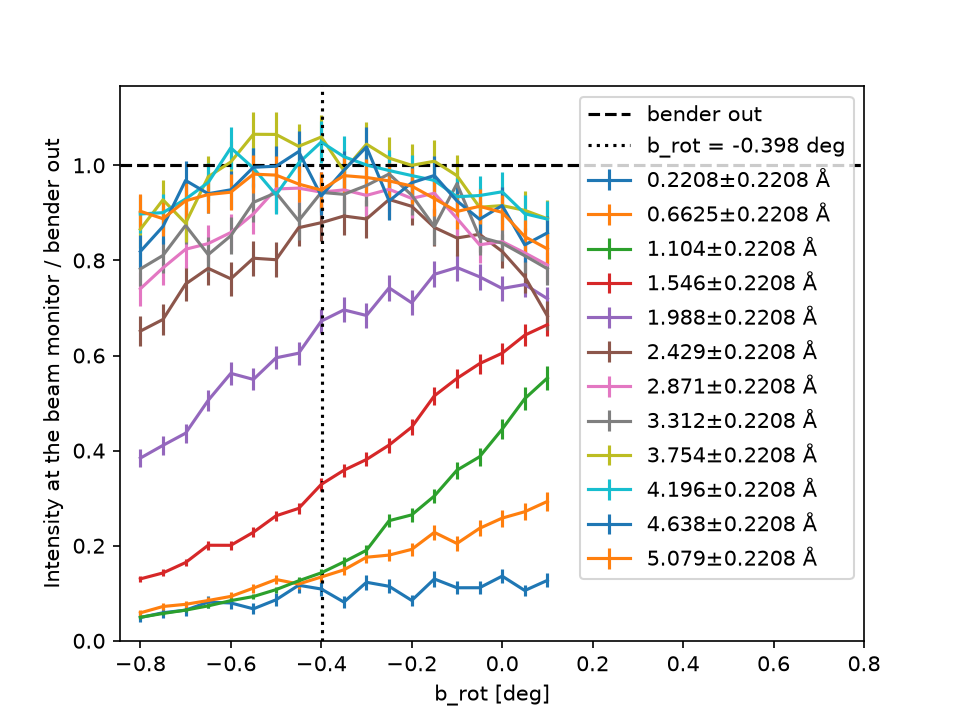
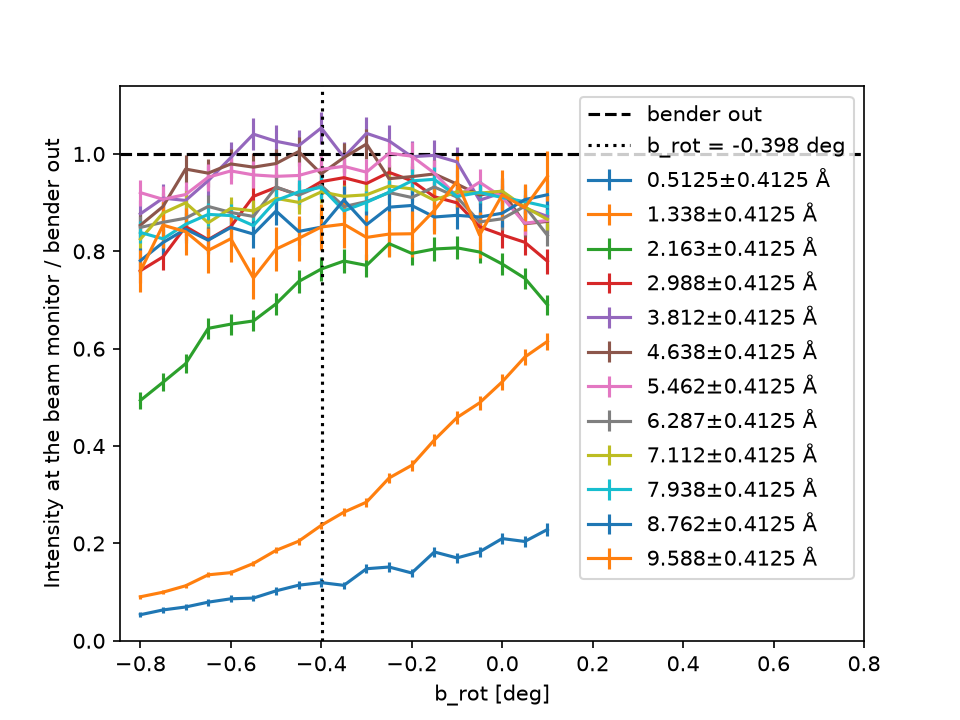
Center the T-Rex source band on lambda0
The source simulates lambda0 ± half the wavelengths that reach the sample
in one source period plus the pulse length, (h/m_n)(1/f + 3.5 ms)/163.8 m,
clipped to 0.1 to 10 Å. A new lambda0 in update_params creates the source
again with its band. The beam monitor can work out its time window from
its wavelength axis, and the diagnostics keep the full 0.1 to 10 Å band.

The tests of the source, params.yaml, the docs TRex.instr and the
extraction still expect the 0.1 to 10 Å band and fail.

diff --git a/src/mcdgs/instruments/trex/model.py b/src/mcdgs/instruments/trex/model.py
@@ -1,12 +1,13 @@
 """The T-Rex instrument and its control parameters."""
 
 from dataclasses import dataclass, replace
-from typing import TYPE_CHECKING
+from typing import TYPE_CHECKING, Any
 
 from mcdgs.core.base import Instrument
 from mcdgs.core.components import (
     Arm,
     Component,
+    ESS_butterfly,
     Guide_gravity,
     Progress_bar,
     Single_crystal,
@@ -25,12 +26,41 @@ from .guides.bispectral import (
 from .guides.curve import guides_curve
 from .guides.extraction import guides_extraction
 from .guides.straight import guides_straight, sample_monitor, sample_pos, slit_mc
-from .sources import source
+from .sources import source, wavelength_band
 
-# the axes of the beam monitor's map, start, stop and number of bins: 15 ms take in the whole
-# pulse up to 5.3 Å
-BEAM_MONITOR_TIME_LIMITS = (0.0, 0.015, 300)  # s
-BEAM_MONITOR_LAMBDA_LIMITS = (0.0, 5.3, 96)  # Å
+# the axes of the beam monitor's map. Time: start, stop and number of bins, 0.05 ms each; a
+# 10 Å neutron flies 14.9 ms to the monitor at 5.90 m, so 20 ms take in the whole pulse up to
+# the source's Lmax. Wavelength: the source's band, see beam_monitor_lambda_limits, in bins of
+# 0.055 Å from 0.1 to 10 Å
+BEAM_MONITOR_TIME_LIMITS = (0.0, 0.020, 400)  # s
+BEAM_MONITOR_LAMBDA_BINS = 180
+
+
+def beam_monitor_lambda_limits(source: ESS_butterfly) -> tuple[float, float, int]:
+    """Return the wavelength axis of the beam monitor's map: the band the source simulates.
+
+    Parameters
+    ----------
+    source:
+        The source, whose ``Lmin`` and ``Lmax`` must be numbers, not instrument parameters.
+
+    Returns
+    -------
+    :
+        Start and stop in Å, ``Lmin`` and ``Lmax``, and ``BEAM_MONITOR_LAMBDA_BINS`` bins.
+
+    Raises
+    ------
+    TypeError
+        If ``Lmin`` or ``Lmax`` is an instrument parameter, whose value the monitor's options
+        cannot hold.
+    """
+    if isinstance(source.Lmin, str) or isinstance(source.Lmax, str):
+        raise TypeError(
+            f"the beam monitor needs a numeric Lmin and Lmax, not {source.Lmin!r} and "
+            f"{source.Lmax!r}"
+        )
+    return (float(source.Lmin), float(source.Lmax), BEAM_MONITOR_LAMBDA_BINS)
 
 
 @dataclass(frozen=True)
@@ -108,14 +138,16 @@ class TRex(Instrument):
         to_psc, to_mc, to_slit = guides_straight()
 
         self.origin = Progress_bar(at=[0, 0, 0])
-        self.source = source()
+        self.source = source(*wavelength_band(self.params.lambda0))
         self.add_components(guides_extraction())
         # bispectral switch: guide 4a (thermal) or bender and guide 4b (cold)
         self.arm_guide_4 = arm_guide_4()
         self.guide_4a = guide_4a(when="bender_in==0")
         self.bender = bender(when="bender_in==1")
         self.guide_4b = guide_4b(when="bender_in==1")
-        self.beam_monitor = beam_monitor(BEAM_MONITOR_TIME_LIMITS, BEAM_MONITOR_LAMBDA_LIMITS)
+        self.beam_monitor = beam_monitor(
+            BEAM_MONITOR_TIME_LIMITS, beam_monitor_lambda_limits(self.source)
+        )
         # curved guides
         self.add_components(to_bwc1)
         self.bw1 = disks["bw1"]
@@ -137,6 +169,26 @@ class TRex(Instrument):
         self.sample = None
         if sample is not None:
             self.sample = replace(sample, relative=sample.relative or "sample_pos")
+
+    def update_params(self, **values: Any) -> None:
+        """Change control parameters.
+
+        A new ``lambda0`` also creates the source again, with the band of
+        :func:`.sources.wavelength_band`. The beam monitor keeps its wavelength axis.
+
+        Parameters
+        ----------
+        **values:
+            New values by parameter name, e.g. ``update_params(lambda0=4.0)``.
+
+        Raises
+        ------
+        TypeError
+            If a name is not a field of :class:`Params`.
+        """
+        super().update_params(**values)
+        if "lambda0" in values:
+            self.source = source(*wavelength_band(self.params.lambda0))
 
     def add_components(self, components: dict[str, Component]) -> None:
         """Set components as attributes under their names, keeping their order.

diff --git a/src/mcdgs/instruments/trex/sources.py b/src/mcdgs/instruments/trex/sources.py
@@ -3,9 +3,49 @@
 from mcdgs.core.components import (
     ESS_butterfly,
 )
+from mcdgs.core.components.source import ESS_SOURCE_FREQUENCY, ESS_SOURCE_LENGTH, L_MAX, L_MIN
+from mcdgs.core.utils import speed_from_wavelength
+
+SAMPLE_Z = 163.8  # m
 
 
-def source() -> ESS_butterfly:
+def wavelength_band(lambda0: float) -> tuple[float, float]:
+    """Return the wavelength band the source simulates around ``lambda0``.
+
+    The band is the wavelengths that reach the sample in one source period plus the pulse
+    length, 1.810 Å, centered on ``lambda0`` and clipped to ``L_MIN`` and ``L_MAX``.
+
+    Parameters
+    ----------
+    lambda0:
+        Central wavelength, in Å.
+
+    Returns
+    -------
+    :
+        ``Lmin`` and ``Lmax`` of the source, in Å.
+
+    Raises
+    ------
+    ValueError
+        If the clipped band is empty: ``lambda0`` is half the band or more outside ``L_MIN``
+        to ``L_MAX``.
+    """
+    # h / m_n = 3956.034 m·Å/s, Planck's constant over the neutron mass: a neutron of
+    # wavelength λ in Å flies at h / (m_n λ) m/s, so the one of 1 Å at 3956.034 m/s
+    h_over_m_n = speed_from_wavelength(1.0)  # m·Å/s
+    # t = L λ m_n / h, so Δλ = (h / m_n) (1 / f + pulse length) / L. With L = 163.8 m that
+    # is 1.810 Å, so 0.905 Å on each side of lambda0
+    half_band = 0.5 * h_over_m_n * (1 / ESS_SOURCE_FREQUENCY + ESS_SOURCE_LENGTH) / SAMPLE_Z  # Å
+
+    l_min = max(L_MIN, lambda0 - half_band)
+    l_max = min(L_MAX, lambda0 + half_band)
+    if l_min >= l_max:
+        raise ValueError(f"lambda0 = {lambda0} Å leaves no band between {L_MIN} and {L_MAX} Å")
+    return (l_min, l_max)
+
+
+def source(l_min: float = L_MIN, l_max: float = L_MAX) -> ESS_butterfly:
     """Create the source component for T-Rex.
 
     Returns
@@ -21,8 +61,8 @@ def source() -> ESS_butterfly:
         dist=2,
         focus_xw=0.095,
         focus_yh=0.035,
-        Lmin=0.1,
-        Lmax=10.0,
+        Lmin=l_min,
+        Lmax=l_max,
         n_pulses=1,
         acc_power=2,
     )

diff --git a/src/mcdgs/diagnostics/trex/extraction.py b/src/mcdgs/diagnostics/trex/extraction.py
@@ -41,7 +41,7 @@ from mcdgs.instruments.trex.guides.bispectral import (
     guide_4b,
 )
 from mcdgs.instruments.trex.guides.extraction import guides_extraction
-from mcdgs.instruments.trex.model import BEAM_MONITOR_LAMBDA_LIMITS, BEAM_MONITOR_TIME_LIMITS
+from mcdgs.instruments.trex.model import BEAM_MONITOR_TIME_LIMITS, beam_monitor_lambda_limits
 from mcdgs.instruments.trex.sources import source
 from mcdgs.mcstas.builder import build_mcstas, default_input_dir
 from mcdgs.mcstas.run_folders import default_output_dir, run_folder
@@ -97,14 +97,16 @@ class Extraction(Instrument):
     def __init__(self, params: ExtractionParams = DEFAULT_PARAMS) -> None:
         super().__init__(params)
         self.origin = Progress_bar(at=[0, 0, 0])
-        self.source = source()
+        self.source = source(l_min=0.1, l_max=10)
         for name, component in guides_extraction().items():
             setattr(self, name, component)
         self.arm_guide_4 = arm_guide_4()
         self.guide_4a = guide_4a(when="bender_in==0")
         self.bender = bender(when="bender_in==1")
         self.guide_4b = guide_4b(when="bender_in==1")
-        self.beam_monitor = beam_monitor(BEAM_MONITOR_TIME_LIMITS, BEAM_MONITOR_LAMBDA_LIMITS)
+        self.beam_monitor = beam_monitor(
+            BEAM_MONITOR_TIME_LIMITS, beam_monitor_lambda_limits(self.source)
+        )
 
     @property
     def instr_params(self) -> list[InstrParam]:
@@ -156,7 +158,7 @@ def main(
     extraction = Extraction()
     tof_result = build_tof(extraction, neutrons=neutrons, seed=seed).run()
     t_start, t_stop, t_bins = BEAM_MONITOR_TIME_LIMITS
-    l_start, l_stop, l_bins = BEAM_MONITOR_LAMBDA_LIMITS
+    l_start, l_stop, l_bins = beam_monitor_lambda_limits(extraction.source)
     bins = {  # the bin edges of the beam monitor's map, in its order: time, wavelength
         "toa": sc.linspace("toa", t_start, t_stop, t_bins + 1, unit="s"),
         "wavelength": sc.linspace("wavelength", l_start, l_stop, l_bins + 1, unit="Å"),

diff --git a/src/mcdgs/instruments/trex/guides/bispectral.py b/src/mcdgs/instruments/trex/guides/bispectral.py
@@ -19,6 +19,9 @@ the guide axis, so nothing downstream of it is rotated.
 import math
 
 from mcdgs.core.components import Arm, Guide_gravity, Monitor_nD, Pol_bender
+from mcdgs.core.components.source import ESS_SOURCE_LENGTH
+from mcdgs.core.utils import speed_from_wavelength
+from mcdgs.instruments.trex.sources import L_MAX, L_MIN
 
 from .extraction import entrance_x, half_taper_angle, z_along_arm
 
@@ -154,7 +157,8 @@ def guide_4b(when: str | None = None) -> Guide_gravity:
 
 
 def beam_monitor(
-    time_limits: tuple[float, float, int], lambda_limits: tuple[float, float, int]
+    time_limits: tuple[float, float, int] | None = None,
+    lambda_limits: tuple[float, float, int] = (L_MIN, L_MAX, 100),
 ) -> Monitor_nD:
     """Create the time and wavelength monitor in the middle of the bunker gap of row 29.
 
@@ -174,7 +178,13 @@ def beam_monitor(
         A new monitor.
     """
     monitor_z = BEAM_MONITOR_GAP_Z + BEAM_MONITOR_GAP_LENGTH / 2
-    t_start, t_stop, t_bins = time_limits
+    if time_limits is None:
+        t_min = monitor_z / speed_from_wavelength(lambda_limits[0])
+        # the slowest neutron, leaving at the end of the pulse
+        t_max = monitor_z / speed_from_wavelength(lambda_limits[1]) + ESS_SOURCE_LENGTH
+        t_start, t_stop, t_bins = (t_min, t_max, 400)
+    else:
+        t_start, t_stop, t_bins = time_limits
     l_start, l_stop, l_bins = lambda_limits
 
     return Monitor_nD(

diff --git a/src/mcdgs/core/components/source.py b/src/mcdgs/core/components/source.py
@@ -5,7 +5,11 @@ from typing import Any
 
 from .base import Component
 
-ESS_SOURCE_FREQUENCY = 14  # Hz, the pulse frequency McStas fixes, as in ess_source-lib.h
+ESS_SOURCE_FREQUENCY = 14  # Hz, the pulse frequency
+ESS_SOURCE_LENGTH = 3.5e-3  # s, the pulse length
+# the widest band the source simulates: the band is clipped to it
+L_MIN = 0.1  # Å
+L_MAX = 10.0  # Å
 
 
 @dataclass(kw_only=True, repr=False)  # repr: Component's
@@ -98,6 +102,15 @@ class ESS_butterfly(Component):
         only, and no McStas parameter.
         """
         return ESS_SOURCE_FREQUENCY
+
+    @property
+    def pulse_length(self) -> float:
+        """Pulse length in s, for an instrument's choppers to be phased to.
+
+        McStas fixes it at 3.5 ms (``ESS_SOURCE_LENGTH`` in ess_source-lib.h), so it is read
+        only, and no McStas parameter.
+        """
+        return ESS_SOURCE_LENGTH
 
     def mcstas_parameters(self) -> dict[str, Any]:
         """Return the McStas parameters, once ``sector`` is checked.

diff --git a/src/mcdgs/instruments/trex/guides/straight.py b/src/mcdgs/instruments/trex/guides/straight.py
@@ -20,6 +20,7 @@ ARM_MC_Z = 161.985  # m, cell B140
 MC_GAP_LENGTH = 0.095  # m, cell D140
 ARM_PSC_Z = 107.9  # m, cell B115
 PSC_GAP_LENGTH = 0.2  # m, cell D115
+SAMPLE_Z = 163.8  # m, cell C148
 
 
 def guides_straight() -> list[dict[str, Component]]:
@@ -317,9 +318,7 @@ def sample_pos() -> Arm:
     :
         A new arm.
     """
-    sample_z = 163.8  # m, cell C148
-
-    return Arm(at=[0, 0, sample_z - ARM_MC_Z], relative="arm_mc")
+    return Arm(at=[0, 0, SAMPLE_Z - ARM_MC_Z], relative="arm_mc")
 
 
 def sample_monitor() -> Monitor_nD:

diff --git a/src/mcdgs/diagnostics/trex/source.py b/src/mcdgs/diagnostics/trex/source.py
@@ -78,7 +78,7 @@ class TRexSource(Instrument):
 
     def __init__(self, params: TRexSourceParams | None = None) -> None:
         super().__init__(params)
-        self.source = source()
+        self.source = source(l_min=0.1, l_max=10)
         self.source_monitor = Monitor_nD(
             xwidth=0.089955,  # m, cell E13, the entrance of guide 1
             yheight=0.029992,  # m, cell F13, the entrance of guide 1
